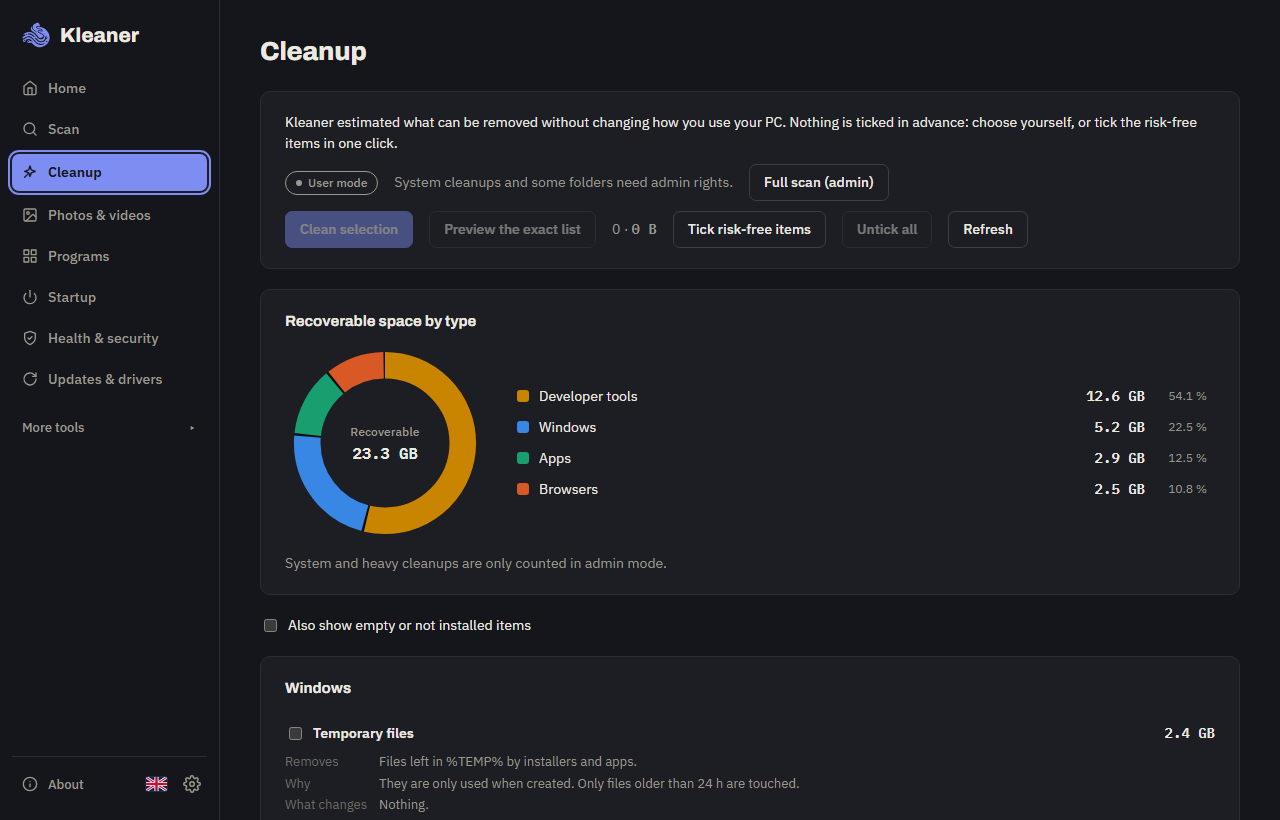
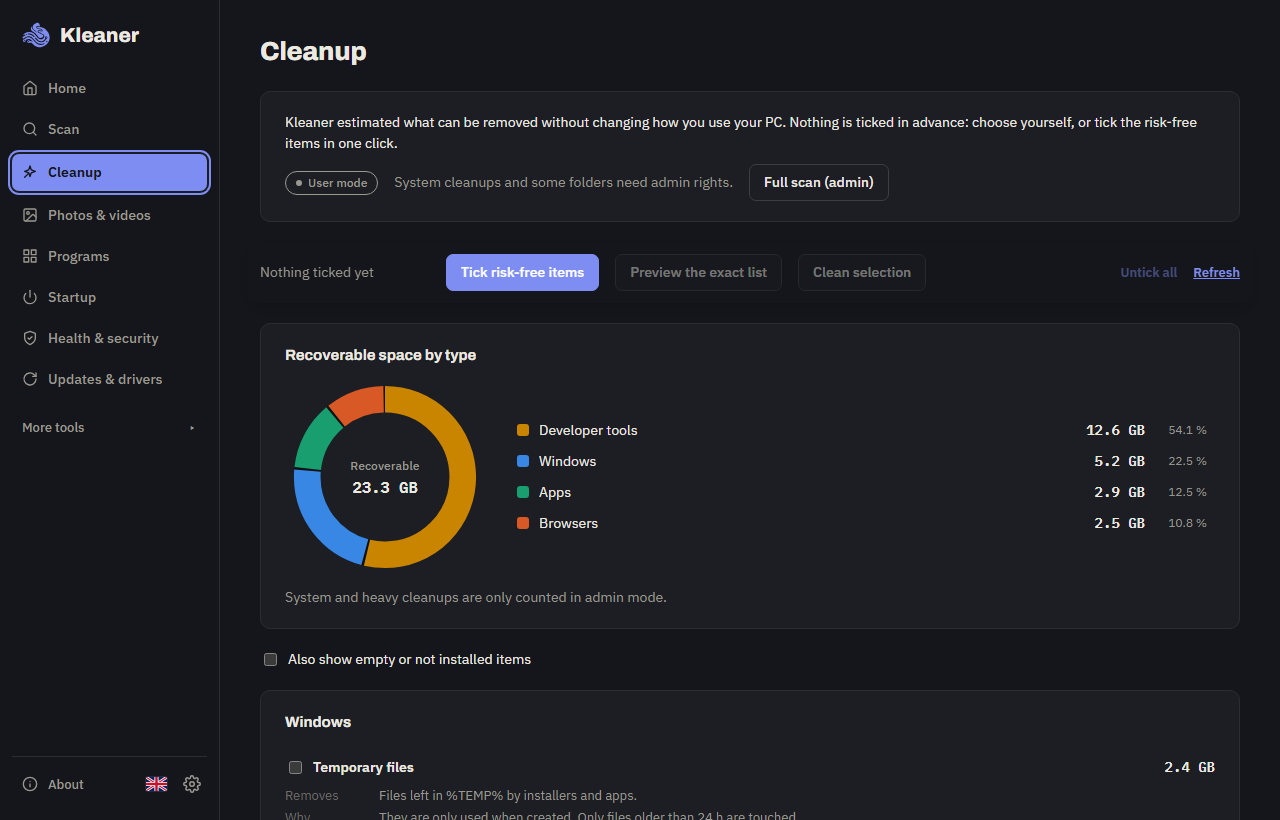
Photos & vidéos en grille par défaut ; nouvelle version : page de téléchargement ; Nettoyage : barre d'action collée en haut, le bon bouton mis en avant ; page d'avis après une désinstallation

diff --git a/src/pages/Cleanup.tsx b/src/pages/Cleanup.tsx
@@ -159,33 +159,41 @@ export function Cleanup({ quick = false, onQuickDone }: { quick?: boolean; onQui
       <Card>
         <p>{t("cleanup.intro")}</p>
         <AdminBanner elevated={view.elevated} />
+        {error && <StatusPill status="danger">{error}</StatusPill>}
+      </Card>
+
+      {/* Reste en haut pendant le défilement : on coche plus bas, on nettoie sans remonter. */}
+      <div className="cleanup-bar">
+        <span className="cleanup-sum">
+          {chosen.length === 0 ? (
+            <span className="muted">{t("cleanup.nothing")}</span>
+          ) : (
+            <>
+              <strong>{chosen.length}</strong> {t("cleanup.ticked")} · <span className="num">{formatBytes(chosenBytes, lang)}</span>
+            </>
+          )}
+        </span>
         <div className="row">
-          <button className="btn btn-primary" disabled={chosen.length === 0 || running} onClick={() => setConfirm(true)}>
-            {running ? t("cleanup.running") : t("cleanup.run")}
+          <button className={chosen.length === 0 ? "btn btn-primary" : "btn"} disabled={running || !estimates} onClick={selectSafe}>
+            {t("cleanup.selectSafe")}
           </button>
           <button className="btn" disabled={chosen.length === 0 || running} onClick={() => setPreview(true)}>
             {t("preview.button")}
           </button>
-          <span className="muted">
-            {chosen.length} · <span className="num">{formatBytes(chosenBytes, lang)}</span>
-          </span>
-          <button className="btn" disabled={running || !estimates} onClick={selectSafe}>
-            {t("cleanup.selectSafe")}
+          <button className={chosen.length > 0 ? "btn btn-primary" : "btn"} disabled={chosen.length === 0 || running} onClick={() => setConfirm(true)}>
+            {running ? t("cleanup.running") : chosen.length > 0 ? `${t("cleanup.run")} · ${formatBytes(chosenBytes, lang)}` : t("cleanup.run")}
           </button>
-          <button className="btn" disabled={running || chosen.length === 0} onClick={() => setSelected(new Set())}>
+        </div>
+        <div className="row cleanup-more">
+          <button className="link" disabled={running || chosen.length === 0} onClick={() => setSelected(new Set())}>
             {t("cleanup.selectNone")}
           </button>
-          <button className="btn" disabled={running || !estimates} onClick={load}>
+          <button className="link" disabled={running || !estimates} onClick={load}>
             {estimates ? t("cleanup.refresh") : t("cleanup.estimating")}
           </button>
-          {!estimates && (
-            <span className="loading" role="status">
-              <span className="spinner" aria-hidden /> {t("cleanup.estimating")}
-            </span>
-          )}
+          {!estimates && <span className="spinner" role="status" aria-label={t("cleanup.estimating")} />}
         </div>
-        {error && <StatusPill status="danger">{error}</StatusPill>}
-      </Card>
+      </div>
 
       {estimates && (
         <Card title={t("cleanup.chart")}>

diff --git a/src/lib/update.ts b/src/lib/update.ts
@@ -3,6 +3,8 @@
 
 const API = "https://api.github.com/repos/Swaksm/Kleaner/releases?per_page=10";
 const KEY = "updateCheck";
+/** Page de téléchargement : installateur ou version portable de la dernière version, en quelques clics. */
+export const DOWNLOAD_PAGE = "https://swaks.org/kleaner/";
 
 export type Update = { version: string; url: string };
 
@@ -46,5 +48,5 @@ export async function findUpdate(current: string): Promise<Update | null> {
   const best = releases
     .filter((r) => !r.draft && (onPre || !r.prerelease) && isNewer(r.tag_name, current))
     .sort((a, b) => (isNewer(a.tag_name, b.tag_name) ? -1 : 1))[0];
-  return best ? { version: best.tag_name.replace(/^v/, ""), url: best.html_url } : null;
+  return best ? { version: best.tag_name.replace(/^v/, ""), url: DOWNLOAD_PAGE } : null;
 }

diff --git a/src/styles/app.css b/src/styles/app.css
@@ -600,6 +600,34 @@ code {
   }
 }
 
+/* Nettoyage : barre d'action collée en haut pendant le défilement */
+.cleanup-bar {
+  position: sticky;
+  top: 0;
+  z-index: 5;
+  display: flex;
+  flex-wrap: wrap;
+  align-items: center;
+  gap: 10px 16px;
+  margin: 0 -12px;
+  padding: 12px;
+  background: var(--bg);
+  border-radius: var(--radius-ctl);
+  box-shadow: 0 6px 12px -10px rgba(0, 0, 0, 0.6);
+}
+.link:disabled {
+  opacity: 0.45;
+  cursor: default;
+  text-decoration: none;
+}
+.cleanup-sum {
+  min-width: 170px;
+}
+.cleanup-more {
+  margin-left: auto;
+  font-size: 13px;
+}
+
 /* Accueil : nettoyage en un clic */
 .quick-clean {
   display: flex;

diff --git a/src/pages/Media.tsx b/src/pages/Media.tsx
@@ -19,9 +19,9 @@ type View = "list" | "grid";
 
 function savedView(): View {
   try {
-    return localStorage.getItem("mediaView") === "grid" ? "grid" : "list";
+    return localStorage.getItem("mediaView") === "list" ? "list" : "grid";
   } catch {
-    return "list";
+    return "grid";
   }
 }
 

diff --git a/src-tauri/src/lib.rs b/src-tauri/src/lib.rs
@@ -64,6 +64,9 @@ fn read_journal(limit: usize) -> Result<JournalView, String> {
     Ok(JournalView { path: dir.join("journal.log").display().to_string(), entries })
 }
 
+/// Page d'avis ouverte au départ (rien d'obligatoire), dans le navigateur habituel.
+const FEEDBACK_PAGE: &str = "https://swaks.org/kleaner/?bye#feedback";
+
 /// Efface toutes les données de Kleaner puis quitte. L'exe portable reste à supprimer à la main.
 #[tauri::command]
 fn remove_kleaner_data(app: tauri::AppHandle) -> Result<(), String> {
@@ -87,7 +90,8 @@ fn remove_kleaner_data(app: tauri::AppHandle) -> Result<(), String> {
         .ok()
         .and_then(|exe| exe.parent().map(|d| d.join("uninstall.exe")))
         .filter(|u| u.is_file())
-        .map_or(String::new(), |u| format!(" & start \"\" \"{}\"", u.display()));
+        // Portable : la page d'avis s'ouvre ici ; installée : c'est le désinstalleur qui l'ouvre (windows/hooks.nsh).
+        .map_or(format!(" & explorer.exe \"{FEEDBACK_PAGE}\""), |u| format!(" & start \"\" \"{}\"", u.display()));
     // WebView2 verrouille ses fichiers tant que l'appli tourne : on supprime 2 s après la fermeture.
     std::process::Command::new("cmd")
         .raw_arg(format!(

diff --git a/CLAUDE.md b/CLAUDE.md
@@ -91,4 +91,5 @@ Mesures sur la vraie machine : tests `#[ignore]` (`scan::tests::bench`, `catalog
 - **Feuille de route v0.3+ réalisée** (T18 à T22, `SPEC.md` révision 8) : démarrage, raccourcis cassés, santé et sécurité, entrées fantômes, Dropbox. Jamais testés dans l'exe : désactivation d'un élément de démarrage, suppression d'une entrée fantôme, durées de démarrage (admin). Pas de « nettoyage du registre » ni de « boosts ».
 - **Installateur et assistant** (issue #2) : setup NSIS, assistant au premier lancement (`Setup.tsx` : langue, thème, mises à jour, démarrage avec Windows). Jamais testés en vrai : installation/désinstallation, création de la tâche de démarrage, lancement réduit.
 - **Visuel** : effet Mica (Windows 11, fenêtre `transparent`, le CSS peint le fond ; classe `html.mica`), icônes de navigation (Lucide), raccourcis Ctrl+1…8 et F5. Jamais vus en vrai : Mica sous la barre latérale, icône près de l'horloge, notification de disque plein.
-- Dernière release : v0.1.0-rc13. Pas encore de v0.1.0 stable (nécessaire pour winget et le `checkver` de Scoop).
+- **Départ** : `src-tauri/windows/hooks.nsh` ouvre `swaks.org/kleaner/?bye#feedback` après une vraie désinstallation (désinstalleur lancé depuis `%TEMP%`, jamais en silencieux ni pendant une réinstallation) ; « Retirer Kleaner » en portable ouvre la même page. Jamais testé en vrai.
+- Dernière release : v0.1.0-rc16. Pas encore de v0.1.0 stable (nécessaire pour winget et le `checkver` de Scoop).
